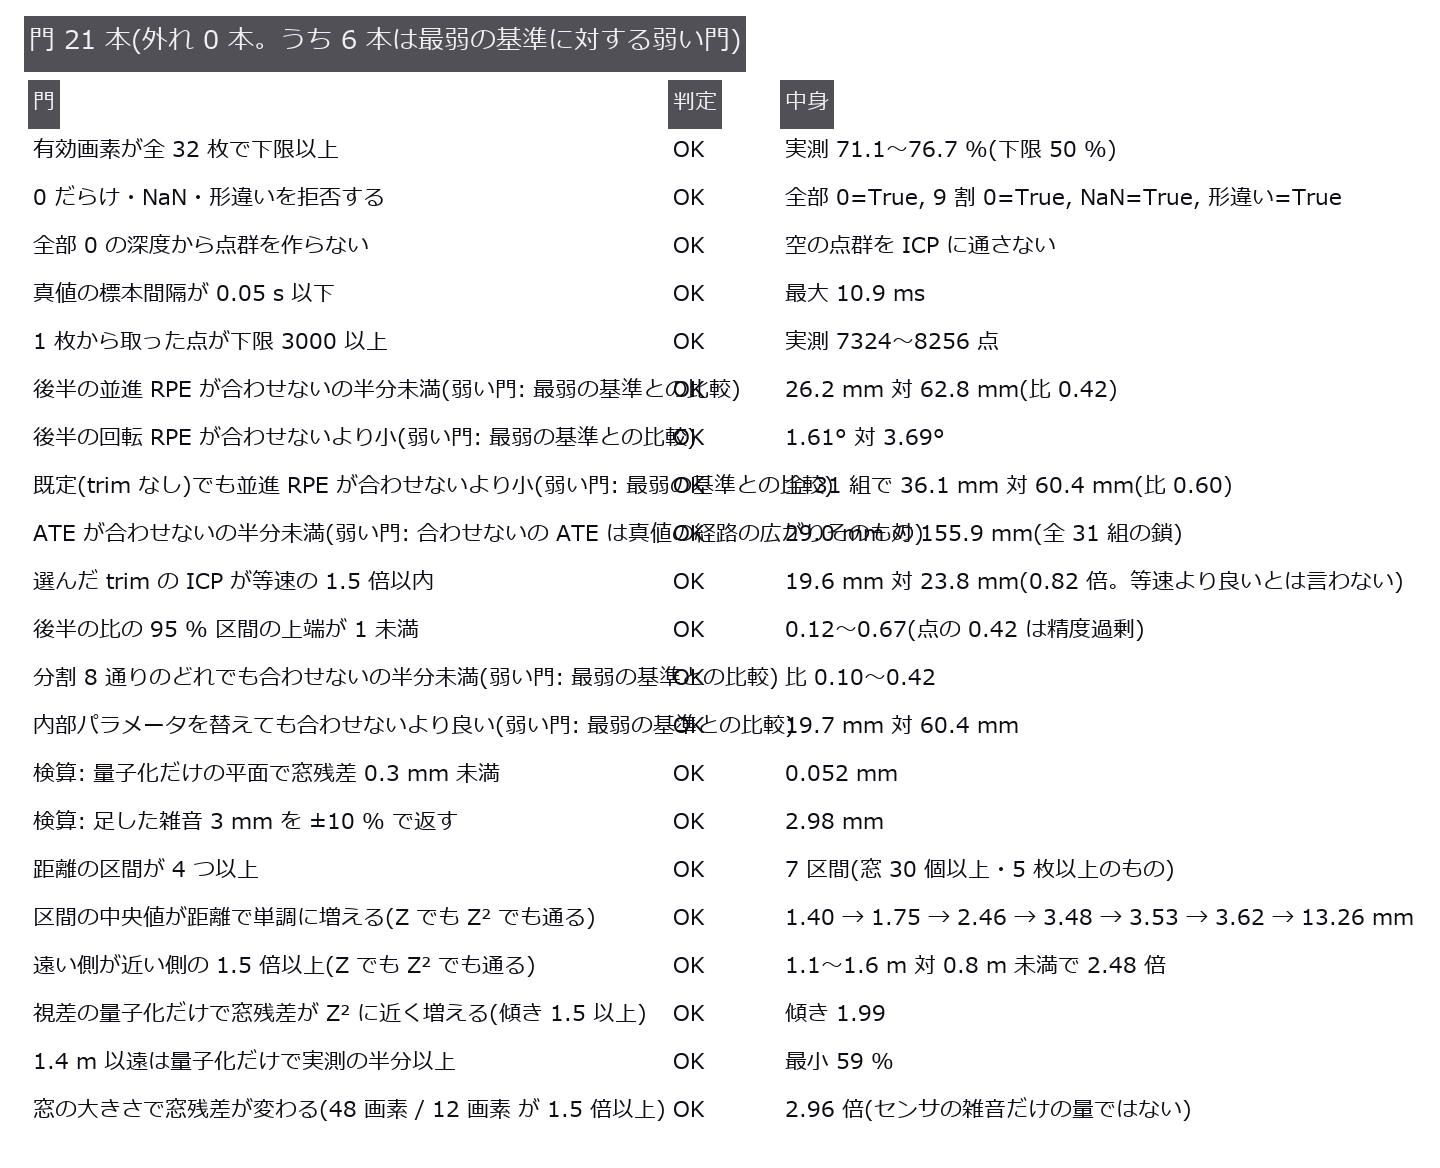
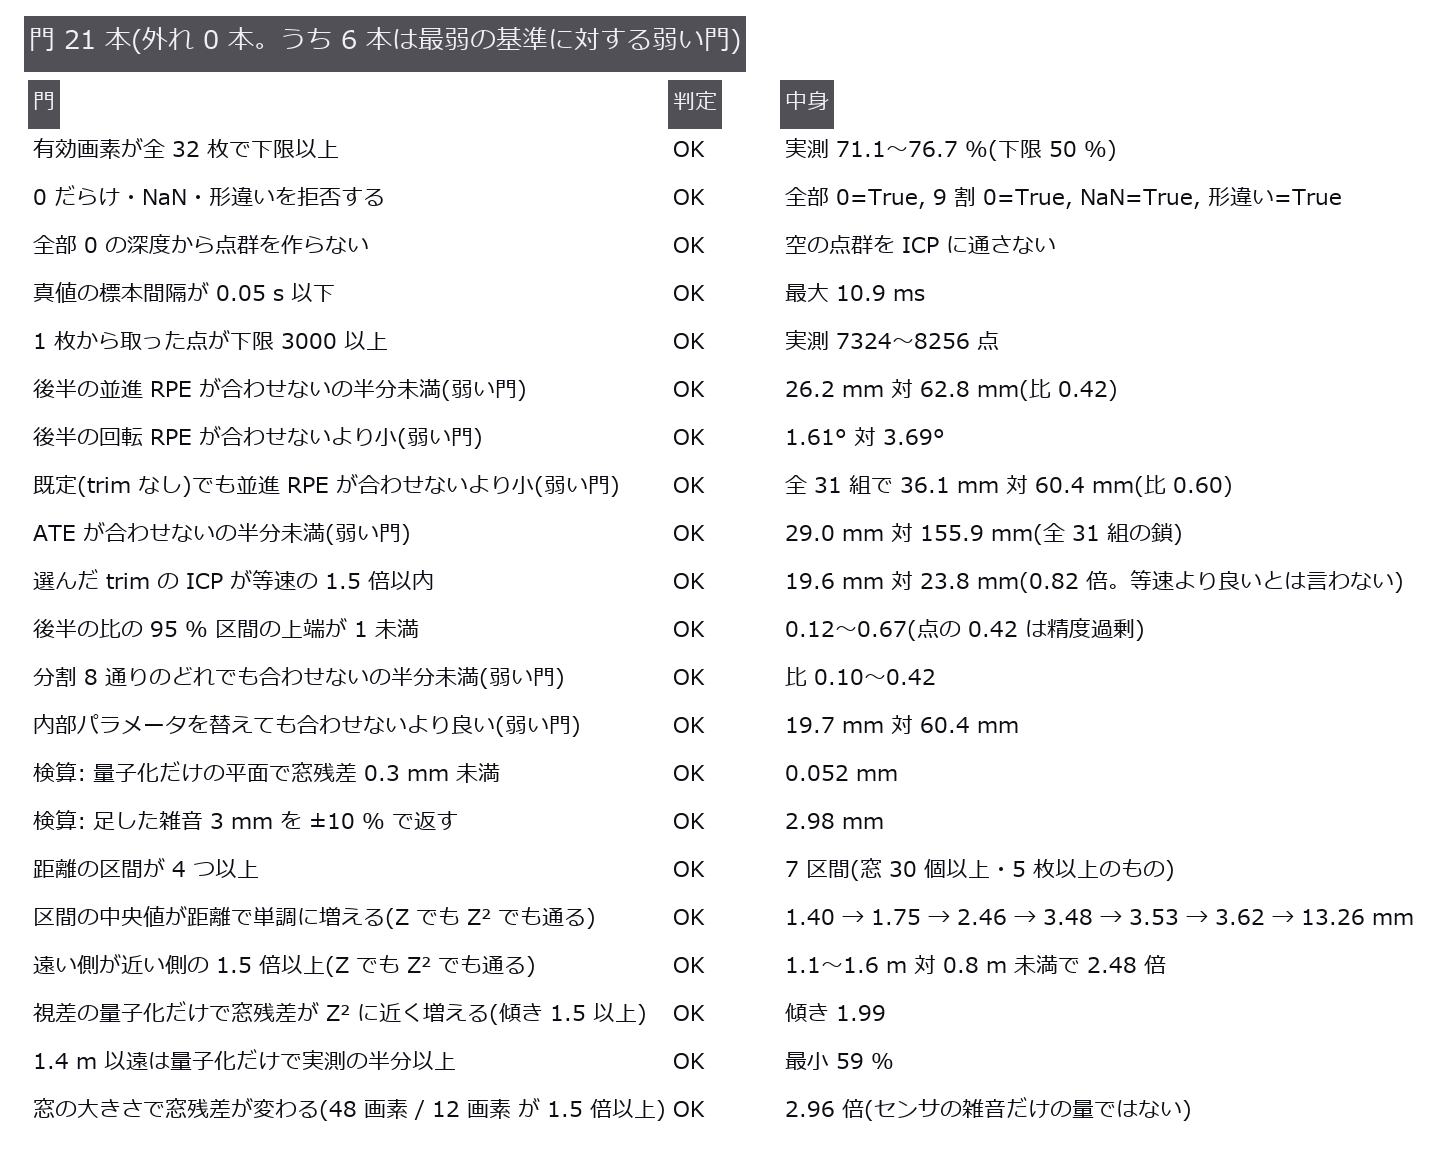
PoC TUM RGB-D: 判定の表で弱い門の長い名前が隣の列に重なっていたので札を短くする
直前のコミットで門の名前に足した「(弱い門: 最弱の基準との比較)」が長く、判定の表(図 05)で
名前が「判定」「中身」の列に重なっていた(原寸で見て気づいた。表の描画は重なりを拒否しない)。
札を「(弱い門)」だけにし、意味は表の題・説明と印字に任せる。数字と門の数は変わらない。

Claude-Session: https://claude.ai/code/session_01AwZFxqx3fbByJvEbUzzbSt

diff --git a/examples/poc_real_tum_rgbd_slam.py b/examples/poc_real_tum_rgbd_slam.py
@@ -691,11 +691,11 @@ def main() -> None:
     print("  ★後半(採点): 並進 %.1f mm(合わせない %.1f mm、比 %.2f)、回転 %.2f°(合わせない %.2f°)、最大 %.1f mm、"
           "中央 %.1f mm" % (1e3 * rpe_t_b, 1e3 * rpe_t_id_b, rpe_t_b / rpe_t_id_b, rpe_r_b, rpe_r_id_b,
                            1e3 * float(et[half:].max()), 1e3 * float(np.median(et[half:]))))
-    g.check("後半の並進 RPE が合わせないの半分未満(弱い門: 最弱の基準との比較)", rpe_t_b < 0.5 * rpe_t_id_b,
+    g.check("後半の並進 RPE が合わせないの半分未満(弱い門)", rpe_t_b < 0.5 * rpe_t_id_b,
             "%.1f mm 対 %.1f mm(比 %.2f)" % (1e3 * rpe_t_b, 1e3 * rpe_t_id_b, rpe_t_b / rpe_t_id_b))
-    g.check("後半の回転 RPE が合わせないより小(弱い門: 最弱の基準との比較)", rpe_r_b < rpe_r_id_b, "%.2f° 対 %.2f°" % (rpe_r_b, rpe_r_id_b))
+    g.check("後半の回転 RPE が合わせないより小(弱い門)", rpe_r_b < rpe_r_id_b, "%.2f° 対 %.2f°" % (rpe_r_b, rpe_r_id_b))
     default_t = rms_of(reg["err_t"][None])
-    g.check("既定(trim なし)でも並進 RPE が合わせないより小(弱い門: 最弱の基準との比較)", default_t < rms_of(it),
+    g.check("既定(trim なし)でも並進 RPE が合わせないより小(弱い門)", default_t < rms_of(it),
             "全 31 組で %.1f mm 対 %.1f mm(比 %.2f)" % (1e3 * default_t, 1e3 * rms_of(it), default_t / rms_of(it)))
     ch = chain_of(reg["est"][chosen])
     ate, ate_err = ate_rmse(ch, traj["poses"])
@@ -704,7 +704,7 @@ def main() -> None:
     path = float(np.sum(np.linalg.norm(np.diff([p[:3, 3] for p in traj["poses"]], axis=0), axis=1)))
     print("  ATE(鎖、剛体整列後)RMSE: 選んだ trim %.1f mm / 既定 %.1f mm / 合わせない %.1f mm(経路長 %.2f m、"
           "最終ドリフト %.1f mm)" % (1e3 * ate, 1e3 * ate_default, 1e3 * ate_ident, path, 1e3 * float(ate_err[-1])))
-    g.check("ATE が合わせないの半分未満(弱い門: 合わせないの ATE は真値の経路の広がりそのもの)", ate < 0.5 * ate_ident,
+    g.check("ATE が合わせないの半分未満(弱い門)", ate < 0.5 * ate_ident,
             "%.1f mm 対 %.1f mm(全 %d 組の鎖)" % (1e3 * ate, 1e3 * ate_ident, npair))
     # --- 基準を強くする(等速)・分割を替える・3 組の影響 ------------------------------ #
     rel = traj["rel"]
@@ -749,7 +749,7 @@ def main() -> None:
     print("  ★比は %.2f〜%.2f(本文の分割は最悪の %.2f)。trim 0.1 が選ばれたのは 8 通り中 %d 通り、本文の分割だけ 0.2。"
           "全 31 組では trim 0.1 が %.1f mm、0.2 が %.1f mm。「選択が後半に移らない」は**この 1 回の分割の話**で一般化しない。"
           % (min(ratios), max(ratios), ratios[0], n01, 1e3 * rms_of(reg["err_t"][0.1]), 1e3 * rms_of(et)))
-    g.check("分割 8 通りのどれでも合わせないの半分未満(弱い門: 最弱の基準との比較)", max(ratios) < 0.5,
+    g.check("分割 8 通りのどれでも合わせないの半分未満(弱い門)", max(ratios) < 0.5,
             "比 %.2f〜%.2f" % (min(ratios), max(ratios)))
     cv_all = rms_of(cv)
     print("  ★見出しに使うなら: 「合わせないの %.2f 倍」は 8 通りの分割で最悪の 1 つ(範囲 %.2f〜%.2f)。等速(oracle)%.1f mm に対しては、"
@@ -761,7 +761,7 @@ def main() -> None:
     ir_t = rms_of(reg_ir["err_t"][chosen])
     print("  内部パラメータを IR の公称値(%s、歪み補正なし)にすると、同じ trim の全組の並進 RPE %.1f mm(ROS の既定 %.1f mm)"
           % (K_FR1_IR, 1e3 * ir_t, 1e3 * rms_of(et)))
-    g.check("内部パラメータを替えても合わせないより良い(弱い門: 最弱の基準との比較)", ir_t < rms_of(it), "%.1f mm 対 %.1f mm" % (1e3 * ir_t, 1e3 * rms_of(it)))
+    g.check("内部パラメータを替えても合わせないより良い(弱い門)", ir_t < rms_of(it), "%.1f mm 対 %.1f mm" % (1e3 * ir_t, 1e3 * rms_of(it)))
 
     # --- 雑音 ------------------------------------------------------------- #
     print("\n[雑音] 窓(%d×%d 画素)の平面当てはめ残差(深度方向)を、距離の区間ごとの中央値で見る" % (TILE, TILE))
